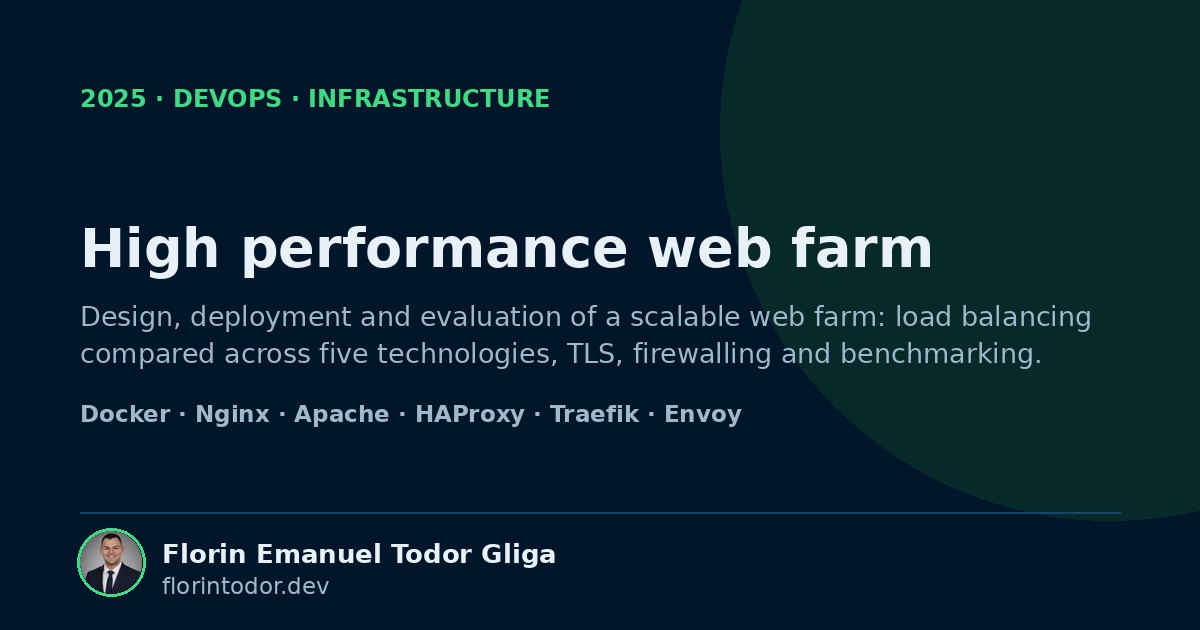
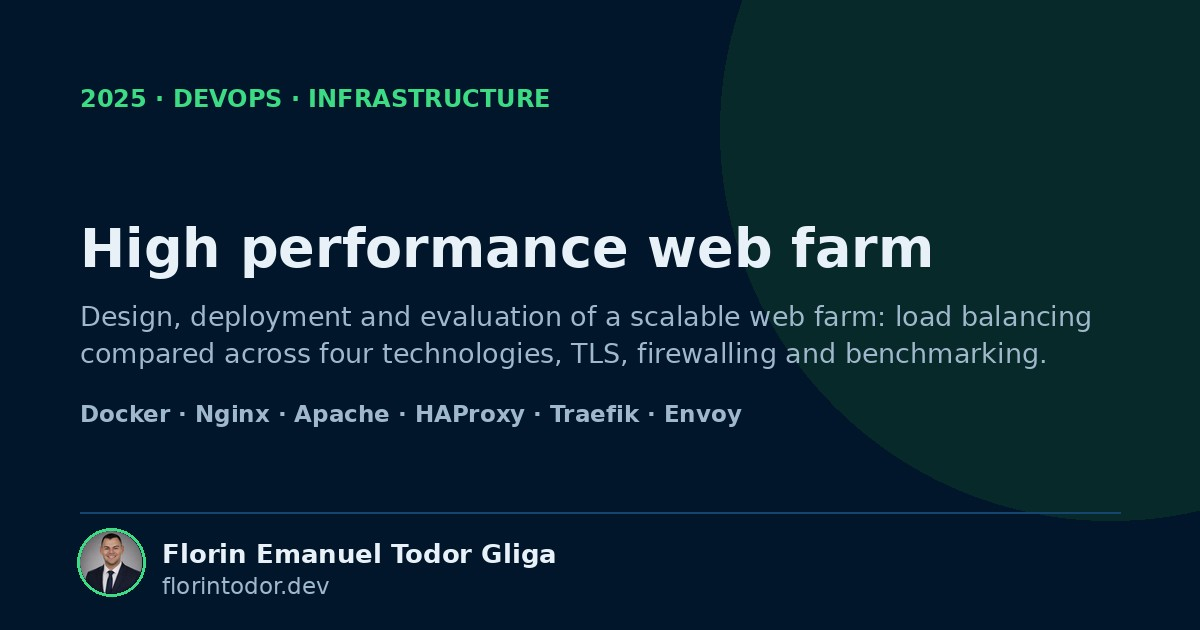
La granja decía cinco balanceadores y en el código hay cuatro
La ficha nombraba GoBetween, pero el repo sólo tiene configuración para
Nginx, HAProxy, Traefik y Envoy: GoBetween sale únicamente en la lista del
README. Se regenera la tarjeta de compartir, que llevaba el texto dibujado.

Además:
- Fuera dos frases de «Sobre mí» que restaban (la duda con el grado y el
  inglés como punto flojo; el B1 ya está en certificaciones).
- Inter servida desde el sitio en vez de Google Fonts.
- El lastmod del sitemap sale del último commit que tocó cada página, no
  de la fecha del build.
- Los glob sobre public/ copiaban MP4 y PDF otra vez a _astro/ con hash;
  ahora se leen los nombres con readdir. dist baja de 27 a 18 MB.
- Visitas con GoatCounter (sin cookies), con eventos para el CV y los
  enlaces de contacto.

Changed region(s): [[0.2775, 0.5429, 0.8633, 0.6032]]

diff --git a/src/idiomas/textos.js b/src/idiomas/textos.js
@@ -82,9 +82,9 @@ export const TEXTOS = {
     sobreMi: {
       titulo: 'Sobre mí',
       parrafos: [
-        'Estudié el <strong>Doble Grado en Ingeniería Informática y ADE</strong>, cinco años entre asignaturas de programación y de empresa. Al principio no lo tenía claro, pero con el tiempo le he visto la utilidad: además de la parte técnica entiendo cómo funciona una empresa por dentro, y eso ayuda a la hora de justificar decisiones.',
+        'Estudié el <strong>Doble Grado en Ingeniería Informática y ADE</strong>, cinco años entre asignaturas de programación y de empresa. Además de la parte técnica entiendo cómo funciona una empresa por dentro, y eso ayuda a la hora de justificar decisiones.',
         'Donde mejor me manejo es en <strong>Linux y Docker</strong>. He montado una granja web con ocho servidores comparando cuatro balanceadores distintos, he puesto un WAF con ModSecurity delante de una aplicación vulnerable para ver qué bloqueaba de verdad, y he configurado HTTPS y cortafuegos con iptables sobre contenedores. Aparte de eso he tocado cosas bastante distintas: un e-commerce con Node y MongoDB, una app en Flutter con backend en Rails, realidad aumentada con OpenCV y varios proyectos en C++.',
-        'Desde septiembre de 2026 trabajo en <strong>Gestiona Sistemas</strong>, de back-end en Python. Sigo subiendo el nivel de inglés, que es lo que peor llevo. Si te encaja algo de lo que hay aquí, escríbeme.',
+        'Desde septiembre de 2026 trabajo en <strong>Gestiona Sistemas</strong>, de back-end en Python. Si te encaja algo de lo que hay aquí, escríbeme.',
       ],
     },
 
@@ -408,9 +408,9 @@ export const TEXTOS = {
     sobreMi: {
       titulo: 'About me',
       parrafos: [
-        "I studied a <strong>Double Degree in Computer Engineering and Business Administration</strong>: five years split between programming subjects and business ones. I wasn't sure about it at first, but over time I've come to see the point. On top of the technical side I understand how a company works from the inside, and that helps when the time comes to justify a decision.",
+        "I studied a <strong>Double Degree in Computer Engineering and Business Administration</strong>: five years split between programming subjects and business ones. On top of the technical side I understand how a company works from the inside, and that helps when the time comes to justify a decision.",
         'Where I work best is <strong>Linux and Docker</strong>. I have built an eight-server web farm comparing four different load balancers, put a ModSecurity WAF in front of a deliberately vulnerable application to see what it really blocked, and set up HTTPS and iptables firewalls on containers. Beyond that I have worked on fairly different things: an e-commerce site with Node and MongoDB, a Flutter app with a Rails backend, augmented reality with OpenCV and several C++ projects.',
-        "Since September 2026 I have been working at <strong>Gestiona Sistemas</strong> as a Python back-end developer. I'm still working on my English, which is the part I find hardest. If something here fits what you need, drop me a line.",
+        "Since September 2026 I have been working at <strong>Gestiona Sistemas</strong> as a Python back-end developer. If something here fits what you need, drop me a line.",
       ],
     },
 

diff --git a/src/utilidades/demos.js b/src/utilidades/demos.js
@@ -6,8 +6,9 @@
  * componentes, así que sí van por id; están aquí para que la página del
  * proyecto y la tarjeta de la portada no lleven cada una su lista.
  */
-const medios = import.meta.glob('/public/media/*', { eager: true });
-const rutas = Object.keys(medios);
+import { ficherosPublicos } from './publicos.js';
+
+const rutas = ficherosPublicos('media');
 
 export const hayVideo = (id) => rutas.some((f) => f.endsWith(`/media/${id}.mp4`));
 
@@ -25,8 +26,7 @@ export const DEMOS_INTERACTIVAS = ['ciber-asesoria', 'habla-con-tu-dinero', 'rut
  * hay texto en pantalla, tiene gemela inglesa igual que las tarjetas de
  * compartir: <id>.jpg y <id>-en.jpg.
  */
-const carteles = import.meta.glob('/public/media/poster/*', { eager: true });
-const rutasCartel = Object.keys(carteles);
+const rutasCartel = ficherosPublicos('media/poster');
 
 export const buscarCartel = (id, idioma = 'es') => {
   const nombre = idioma === 'en' && rutasCartel.includes(`/public/media/poster/${id}-en.jpg`)

diff --git a/src/utilidades/publicos.js b/src/utilidades/publicos.js
@@ -1,0 +1,20 @@
+/**
+ * Qué ficheros hay en una carpeta de public/, con la ruta como '/public/<carpeta>/<nombre>'.
+ *
+ * Antes esto era import.meta.glob, pero glob convierte cada fichero en un
+ * import y Vite los copiaba otra vez a _astro/ con hash: todos los MP4 y los
+ * PDF de certificados se publicaban dos veces. Aquí sólo hacían falta los nombres.
+ */
+import fs from 'node:fs';
+import path from 'node:path';
+
+export const ficherosPublicos = (carpeta, extensiones) => {
+  const dir = path.join(process.cwd(), 'public', carpeta);
+  if (!fs.existsSync(dir)) return [];
+  return fs
+    .readdirSync(dir, { withFileTypes: true })
+    .filter((f) => f.isFile())
+    .map((f) => f.name)
+    .filter((n) => !extensiones || extensiones.includes(path.extname(n).slice(1).toLowerCase()))
+    .map((n) => `/public/${carpeta}/${n}`);
+};

diff --git a/src/styles/global.css b/src/styles/global.css
@@ -18,7 +18,7 @@
   --radio-s: 10px;
   --lateral: 340px;
   --ancho: 1240px;
-  --sans: "Inter", ui-sans-serif, system-ui, -apple-system, "Segoe UI", Roboto, sans-serif;
+  --sans: "Inter Variable", "Inter", ui-sans-serif, system-ui, -apple-system, "Segoe UI", Roboto, sans-serif;
   --mono: ui-monospace, "JetBrains Mono", "Fira Code", Menlo, monospace;
   --sombra: 0 4px 24px rgba(0, 0, 0, .28);
 }
@@ -41,7 +41,7 @@
   --dora: #c58af9;
   --radio: 16px;
   --mono: ui-monospace, "JetBrains Mono", "Fira Code", Menlo, monospace;
-  --sans: "Inter", ui-sans-serif, system-ui, -apple-system, "Segoe UI", Roboto, sans-serif;
+  --sans: "Inter Variable", "Inter", ui-sans-serif, system-ui, -apple-system, "Segoe UI", Roboto, sans-serif;
   --sombra: 0 4px 24px rgba(0, 0, 0, .28);
 }
 
